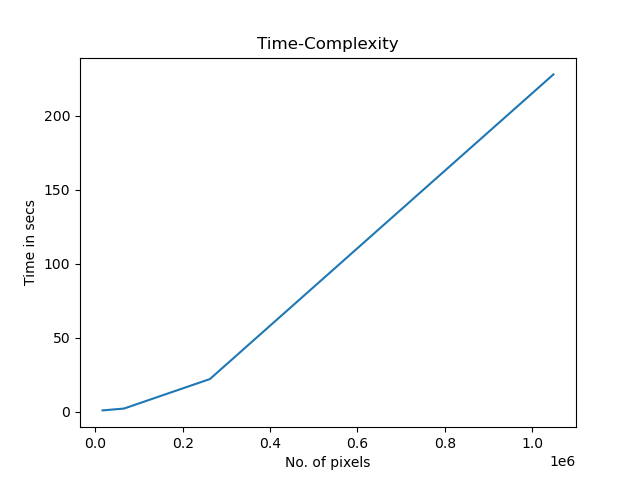
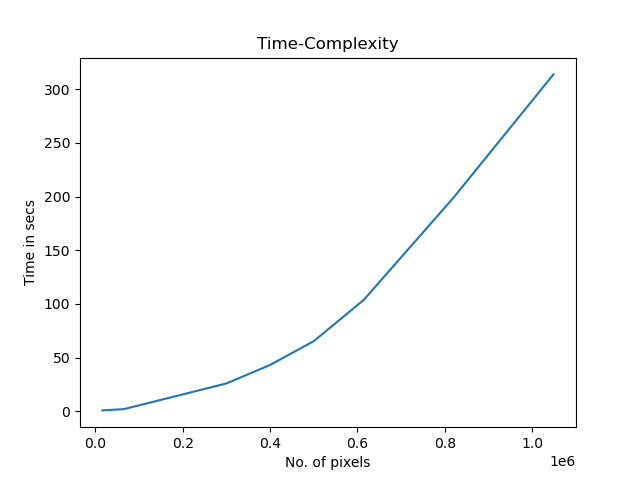
time complexity

diff --git a/analyse/time-complexity.py b/analyse/time-complexity.py
@@ -4,13 +4,17 @@ import numpy as np
 
 imgSize = [128,256,512,1024]
 pixels = [number ** 2 for number in imgSize]
-t1 = np.array([0.75,1.895,22.13,283.056])
-t2 = np.array([0.79,1.994,25.386,398.365])
-t3 = np.array([0.75,2.156,18.336,2.156])
+# t1 = np.array([0.75,1.895,22.13,283.056])
+# t2 = np.array([0.79,1.994,25.386,398.365])
+# t3 = np.array([0.75,2.156,18.336,2.156])
 
-t = np.add(t1,t2)
-t = np.add(t,t3)
-t = t/3
+# t = np.add(t1,t2)
+# t = np.add(t,t3)
+# t = t/3
+
+pixels = np.array([128*128, 256*256,500*600,500*800,625*800,600*1024,800*1024,1024*1024])
+
+t = np.array([0.79,1.99, 25.91,43.12,65.33,103.76,198.67,313.77])
   
 # plotting the points 
 plt.plot(pixels, t)
